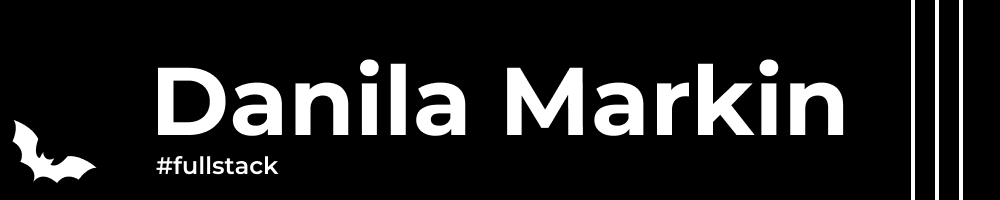
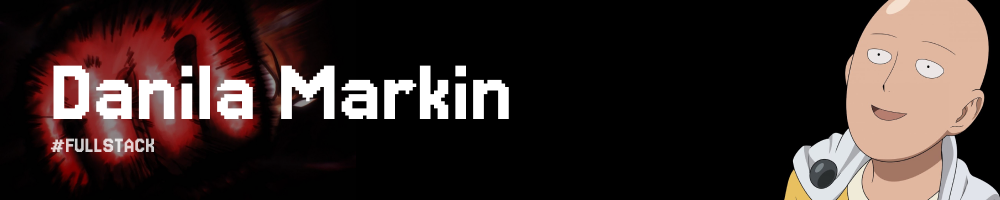
update profile

diff --git a/README.md b/README.md
@@ -1,20 +1,1 @@
 <img src="https://raw.githubusercontent.com/DanilaMarkin/DanilaMarkin/master/assets/banner.png" width="100%">
-
-# 💫 About Me:
-
-<img src="https://steamuserimages-a.akamaihd.net/ugc/423692186782972314/C53C87F02C19A1CAA776079BAFE7F84ECA077F41/?imw=5000&imh=5000&ima=fit&impolicy=Letterbox&imcolor=%23000000&letterbox=false" width="250" height="250" align="right" style="border-radius: 50%;">
-
-🚀 Full-Stack Developer | Problem Solver | Tech Enthusiast<br><br>I am a highly experienced full-stack developer with a stvarious projects and industries. From *e-commerce platforms to **custocustom web applications, I have worperformance, scalability, and seamless user experiences.<br><br>💡 What I do:<br><br>Front-end & Back-end development usi<br>Optimizing website performance for speed and efficiency<br>Creating dynamic and interactive web applications<br>Developing and maintaining scalable systems<br>With a passion for innovation and a deep understanding of both client-side and server-side development, I am always lo<br><br>Let's connect and build something great together! 🚀
-
-# 💻 Tech Stack:
-![CSS3](https://img.shields.io/badge/css3-%231572B6.svg?style=for-the-badge&logo=css3&logoColor=white) ![GraphQL](https://img.shields.io/badge/-GraphQL-E10098?style=for-the-badge&logo=graphql&logoColor=white) ![HTML5](https://img.shields.io/badge/html5-%23E34F26.svg?style=for-the-badge&logo=html5&logoColor=white) ![Java](https://img.shields.io/badge/java-%23ED8B00.svg?style=for-the-badge&logo=openjdk&logoColor=white) ![JavaScript](https://img.shields.io/badge/javascript-%23323330.svg?style=for-the-badge&logo=javascript&logoColor=%23F7DF1E) ![Markdown](https://img.shields.io/badge/markdown-%23000000.svg?style=for-the-badge&logo=markdown&logoColor=white) ![PHP](https://img.shields.io/badge/php-%23777BB4.svg?style=for-the-badge&logo=php&logoColor=white) ![Python](https://img.shields.io/badge/python-3670A0?style=for-the-badge&logo=python&logoColor=ffdd54) ![TypeScript](https://img.shields.io/badge/typescript-%23007ACC.svg?style=for-the-badge&logo=typescript&logoColor=white) ![Windows Terminal](https://img.shields.io/badge/Windows%20Terminal-%234D4D4D.svg?style=for-the-badge&logo=windows-terminal&logoColor=white) ![Cloudflare](https://img.shields.io/badge/Cloudflare-F38020?style=for-the-badge&logo=Cloudflare&logoColor=white) ![Google Cloud](https://img.shields.io/badge/GoogleCloud-%234285F4.svg?style=for-the-badge&logo=google-cloud&logoColor=white) ![Firebase](https://img.shields.io/badge/firebase-%23039BE5.svg?style=for-the-badge&logo=firebase) ![Bootstrap](https://img.shields.io/badge/bootstrap-%238511FA.svg?style=for-the-badge&logo=bootstrap&logoColor=white) ![Bulma](https://img.shields.io/badge/bulma-00D0B1?style=for-the-badge&logo=bulma&logoColor=white) ![Chakra](https://img.shields.io/badge/chakra-%234ED1C5.svg?style=for-the-badge&logo=chakraui&logoColor=white) ![Chart.js](https://img.shields.io/badge/chart.js-F5788D.svg?style=for-the-badge&logo=chart.js&logoColor=white) ![Context-API](https://img.shields.io/badge/Context--Api-000000?style=for-the-badge&logo=react) ![Django](https://img.shields.io/badge/django-%23092E20.svg?style=for-the-badge&logo=django&logoColor=white) ![Express.js](https://img.shields.io/badge/express.js-%23404d59.svg?style=for-the-badge&logo=express&logoColor=%2361DAFB) ![FastAPI](https://img.shields.io/badge/FastAPI-005571?style=for-the-badge&logo=fastapi) ![Flask](https://img.shields.io/badge/flask-%23000.svg?style=for-the-badge&logo=flask&logoColor=white) ![Gutenberg](https://img.shields.io/badge/gutenberg-%23077CB2.svg?style=for-the-badge&logo=gutenberg&logoColor=white) ![jQuery](https://img.shields.io/badge/jquery-%230769AD.svg?style=for-the-badge&logo=jquery&logoColor=white) ![JWT](https://img.shields.io/badge/JWT-black?style=for-the-badge&logo=JSON%20web%20tokens) ![Laravel](https://img.shields.io/badge/laravel-%23FF2D20.svg?style=for-the-badge&logo=laravel&logoColor=white) ![Livewire](https://img.shields.io/badge/livewire-%234e56a6.svg?style=for-the-badge&logo=livewire&logoColor=white) ![MUI](https://img.shields.io/badge/MUI-%230081CB.svg?style=for-the-badge&logo=mui&logoColor=white) ![NPM](https://img.shields.io/badge/NPM-%23CB3837.svg?style=for-the-badge&logo=npm&logoColor=white) ![Next JS](https://img.shields.io/badge/Next-black?style=for-the-badge&logo=next.js&logoColor=white) ![NodeJS](https://img.shields.io/badge/node.js-6DA55F?style=for-the-badge&logo=node.js&logoColor=white) ![React](https://img.shields.io/badge/react-%2320232a.svg?style=for-the-badge&logo=react&logoColor=%2361DAFB) ![React Native](https://img.shields.io/badge/react_native-%2320232a.svg?style=for-the-badge&logo=react&logoColor=%2361DAFB) ![React Query](https://img.shields.io/badge/-React%20Query-FF4154?style=for-the-badge&logo=react%20query&logoColor=white) ![React Router](https://img.shields.io/badge/React_Router-CA4245?style=for-the-badge&logo=react-router&logoColor=white) ![SASS](https://img.shields.io/badge/SASS-hotpink.svg?style=for-the-badge&logo=SASS&logoColor=white) ![Vite](https://img.shields.io/badge/vite-%23646CFF.svg?style=for-the-badge&logo=vite&logoColor=white) ![Vue.js](https://img.shields.io/badge/vue.js-%2335495e.svg?style=for-the-badge&logo=vuedotjs&logoColor=%234FC08D) ![TailwindCSS](https://img.shields.io/badge/tailwindcss-%2338B2AC.svg?style=for-the-badge&logo=tailwind-css&logoColor=white) ![Webpack](https://img.shields.io/badge/webpack-%238DD6F9.svg?style=for-the-badge&logo=webpack&logoColor=black) ![Three js](https://img.shields.io/badge/threejs-black?style=for-the-badge&logo=three.js&logoColor=white) ![WordPress](https://img.shields.io/badge/WordPress-%23117AC9.svg?style=for-the-badge&logo=WordPress&logoColor=white) ![MariaDB](https://img.shields.io/badge/MariaDB-003545?style=for-the-badge&logo=mariadb&logoColor=white) ![MicrosoftSQLServer](https://img.shields.io/badge/Microsoft%20SQL%20Server-CC2927?style=for-the-badge&logo=microsoft%20sql%20server&logoColor=white) ![MongoDB](https://img.shields.io/badge/MongoDB-%234ea94b.svg?style=for-the-badge&logo=mongodb&logoColor=white) ![MySQL](https://img.shields.io/badge/mysql-4479A1.svg?style=for-the-badge&logo=mysql&logoColor=white) ![Postgres](https://img.shields.io/badge/postgres-%23316192.svg?style=for-the-badge&logo=postgresql&logoColor=white) ![SQLite](https://img.shields.io/badge/sqlite-%2307405e.svg?style=for-the-badge&logo=sqlite&logoColor=white) ![Firebase](https://img.shields.io/badge/firebase-a08021?style=for-the-badge&logo=firebase&logoColor=ffcd34) ![Adobe](https://img.shields.io/badge/adobe-%23FF0000.svg?style=for-the-badge&logo=adobe&logoColor=white) ![Adobe After Effects](https://img.shields.io/badge/Adobe%20After%20Effects-9999FF.svg?style=for-the-badge&logo=Adobe%20After%20Effects&logoColor=white) ![Adobe Illustrator](https://img.shields.io/badge/adobe%20illustrator-%23FF9A00.svg?style=for-the-badge&logo=adobe%20illustrator&logoColor=white) ![Adobe Photoshop](https://img.shields.io/badge/adobe%20photoshop-%2331A8FF.svg?style=for-the-badge&logo=adobe%20photoshop&logoColor=white) ![Adobe Lightroom Classic](https://img.shields.io/badge/Adobe%20Lightroom%20Classic-31A8FF.svg?style=for-the-badge&logo=Adobe%20Lightroom%20Classic&logoColor=white) ![Canva](https://img.shields.io/badge/Canva-%2300C4CC.svg?style=for-the-badge&logo=Canva&logoColor=white) ![Figma](https://img.shields.io/badge/figma-%23F24E1E.svg?style=for-the-badge&logo=figma&logoColor=white) ![Framer](https://img.shields.io/badge/Framer-black?style=for-the-badge&logo=framer&logoColor=blue) ![GitLab CI](https://img.shields.io/badge/gitlab%20CI-%23181717.svg?style=for-the-badge&logo=gitlab&logoColor=white) ![GitHub Actions](https://img.shields.io/badge/github%20actions-%232671E5.svg?style=for-the-badge&logo=githubactions&logoColor=white) ![Git](https://img.shields.io/badge/git-%23F05033.svg?style=for-the-badge&logo=git&logoColor=white) ![GitHub](https://img.shields.io/badge/github-%23121011.svg?style=for-the-badge&logo=github&logoColor=white) ![GitLab](https://img.shields.io/badge/gitlab-%23181717.svg?style=for-the-badge&logo=gitlab&logoColor=white) ![Babel](https://img.shields.io/badge/Babel-F9DC3e?style=for-the-badge&logo=babel&logoColor=black) ![Docker](https://img.shields.io/badge/docker-%230db7ed.svg?style=for-the-badge&logo=docker&logoColor=white) ![ESLint](https://img.shields.io/badge/ESLint-4B3263?style=for-the-badge&logo=eslint&logoColor=white) ![Jira](https://img.shields.io/badge/jira-%230A0FFF.svg?style=for-the-badge&logo=jira&logoColor=white) ![Swagger](https://img.shields.io/badge/-Swagger-%23Clojure?style=for-the-badge&logo=swagger&logoColor=white)
-
-# 📊 GitHub Stats:
-![](https://github-readme-stats.vercel.app/api?username=DanilaMarkin&theme=dark&hide_border=true&include_all_commits=true&count_private=false)
-![](https://nirzak-streak-stats.vercel.app/?user=DanilaMarkin&theme=dark&hide_border=true)<br/>
-![](https://github-readme-stats.vercel.app/api/top-langs/?username=DanilaMarkin&theme=dark&hide_border=true&include_all_commits=true&count_private=false&layout=compact)
-
----
-[![](https://visitcount.itsvg.in/api?id=DanilaMarkin&icon=2&color=0)](https://visitcount.itsvg.in)
-
-<!-- Proudly created with GPRM ( https://gprm.itsvg.in ) -->
